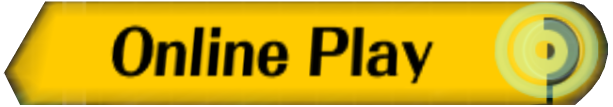
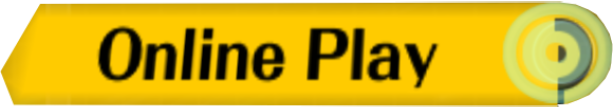
Play Page

diff --git a/play.html b/play.html
@@ -1,0 +1,39 @@
+<!DOCTYPE html>
+<html lang="en">
+<head>
+    <meta charset="UTF-8">
+    <meta http-equiv="X-UA-Compatible" content="IE=edge">
+    <meta name="viewport" content="width=device-width, initial-scale=1.0">
+    <title>CompetitiveMelee</title>
+    <link rel="stylesheet" href="styles.css">
+</head>
+<body>
+    <header class="banner">
+        <a href="index.html"><img src="img/Banner.png" alt=""></a>
+    </header>
+    <nav class="navbar">
+        <a href="index.html">ABOUT</a>
+        <a href="players.html">PLAYERS</a>
+        <a href="tournaments.html">TOURNAMENTS</a>
+        <a href="tutorials.html">TUTORIALS</a>
+        <a class="current" href="play.html">PLAY</a>
+    </nav>
+    <h1 class="title">JOIN AND PLAY THE GAME!</h1>
+    <section class="container-play">
+        <img src="img/Slippi.png" alt="">
+        <div>
+            <h2>About slippi.gg</h2>
+            <p>Lorem ipsum dolor sit amet consectetur, adipisicing elit. Amet molestiae aut cum eos iure placeat dicta sed doloribus veniam, praesentium repudiandae debitis accusamus blanditiis voluptas facilis eligendi voluptatibus at aspernatur.
+            Harum voluptate a corrupti nihil? Soluta delectus temporibus voluptatum, iure voluptate inventore nemo ea esse iste nisi exercitationem accusamus quisquam aperiam! Harum, cum. Unde similique sunt eligendi earum pariatur laboriosam.
+            Excepturi quas, placeat laboriosam velit voluptatem minima dolores quae autem soluta praesentium veniam qui rerum ipsam sunt itaque, aut ut eaque saepe atque odit iste tempora. Soluta doloremque vel officiis.</p>
+        </div>
+    </section>
+    <div class="play-button">
+        <a href="https://slippi.gg/" target="_blank"><img src="img/OnlinePlay.png" alt=""></a>
+    </div>
+</body>
+<footer class="footer footer-play">
+    <p>By: Brayan Israel Rivera Almaguer</p>
+    <p>Front End - PIA</p>
+</footer>
+</html>

diff --git a/styles.css b/styles.css
@@ -374,3 +374,34 @@ li:last-child {
 }
 
 /* TUTORIALS PAGE END */
+
+/* PLAY PAGE */
+
+.container-play {
+    display: flex;
+    flex-direction: row;
+    align-items: center;
+    padding: 0 11%;
+    color: white;
+    margin: none;
+}
+
+.container-play p {
+    margin-top: 20px;
+    font-size: 1.3rem;
+}
+
+.container-play img {
+    width: 300px;
+}
+
+.play-button {
+    width: 400px;
+    margin: 50px auto 50px auto;
+}
+
+.play-button a img {
+    width: 400px;
+}
+
+/* PLAY PAGE END */

diff --git a/tutorials.html b/tutorials.html
@@ -16,7 +16,7 @@
         <a href="players.html">PLAYERS</a>
         <a href="tournaments.html">TOURNAMENTS</a>
         <a class="current" href="tournaments.html">TUTORIALS</a>
-        <a href="#">PLAY</a>
+        <a href="play.html">PLAY</a>
     </nav>
     <h1 class="title-tutorials">LEARN TO PLAY LIKE A PRO!</h1>
     <section class="container-videos">

diff --git a/tournaments.html b/tournaments.html
@@ -16,7 +16,7 @@
         <a href="players.html">PLAYERS</a>
         <a class="current" href="tournaments.html">TOURNAMENTS</a>
         <a href="tutorials.html">TUTORIALS</a>
-        <a href="#">PLAY</a>
+        <a href="play.html">PLAY</a>
     </nav>
     <h1 class="title-tournaments">WATCH THE BIG TOURNAMENTS LIVE!</h1>
     <section class="cards">

diff --git a/players.html b/players.html
@@ -16,7 +16,7 @@
         <a class="current" href="players.html">PLAYERS</a>
         <a href="tournaments.html">TOURNAMENTS</a>
         <a href="tutorials.html">TUTORIALS</a>
-        <a href="#">PLAY</a>
+        <a href="play.html">PLAY</a>
     </nav>
     <h1 class="title title-players">MEET THE PLAYERS!</h1>
     <div class="container-players">

diff --git a/index.html b/index.html
@@ -16,7 +16,7 @@
         <a href="players.html">PLAYERS</a>
         <a href="tournaments.html">TOURNAMENTS</a>
         <a href="tutorials.html">TUTORIALS</a>
-        <a href="#">PLAY</a>
+        <a href="play.html">PLAY</a>
     </nav>
     <h1 class="title">ABOUT THIS PAGE...</h1>
     <div class="container-fr">
